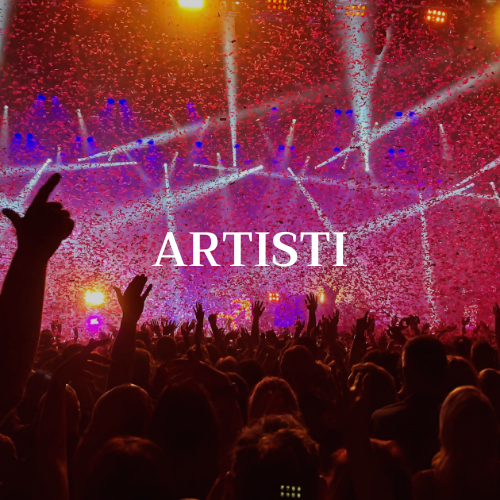
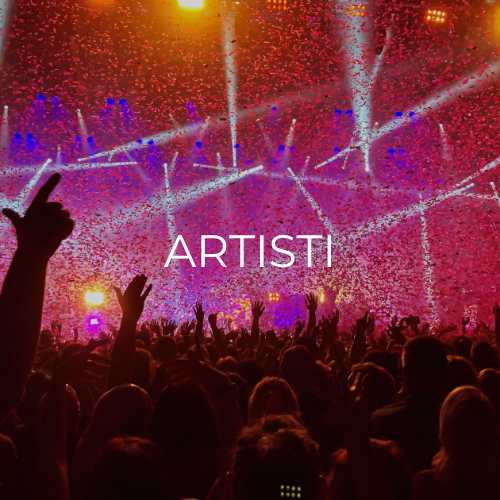
home ok

Changed region(s): [[0.3, 0.45, 0.69, 0.54]]

diff --git a/style.css b/style.css
@@ -573,6 +573,79 @@ nav
     }
 }
 
+@media (max-height: 650px)
+{
+    .mobile-artisti{
+        margin-top: -30px;    
+        width: 200px;
+        margin-left: -100px;
+
+    }
+    
+    .mobile-intrattenimento{
+        margin-top: 210px;
+        width: 200px;
+        margin-left: -100px;
+    }
+
+    #mobile-red-rect {
+        margin-top: 250px;
+    }
+    
+    #mobile-green-rect {
+        margin-top: 470px;
+    }
+}
+
+@media (max-height: 580px)
+{
+    .mobile-artisti{
+        margin-top: -30px;    
+        width: 200px;
+        margin-left: -100px;
+
+    }
+    
+    .mobile-intrattenimento{
+        margin-top: 210px;
+        width: 200px;
+        margin-left: -100px;
+    }
+
+    #mobile-red-rect {
+        margin-top: 190px;
+    }
+    
+    #mobile-green-rect {
+        margin-top: 420px;
+    }
+}
+
+@media (max-height: 522px)
+{
+    .mobile-artisti{
+        margin-top: 10px;    
+        width: 190px;
+        margin-left: -95px;
+
+    }
+    
+    .mobile-intrattenimento{
+        margin-top: 210px;
+        width: 190px;
+        margin-left: -95px;
+    }
+
+    #mobile-red-rect {
+        margin-top: 150px;
+    }
+    
+    #mobile-green-rect {
+        margin-top: 350px;
+    }
+}
+
+
   /* social icons */
 svg {
   width: 15px;
